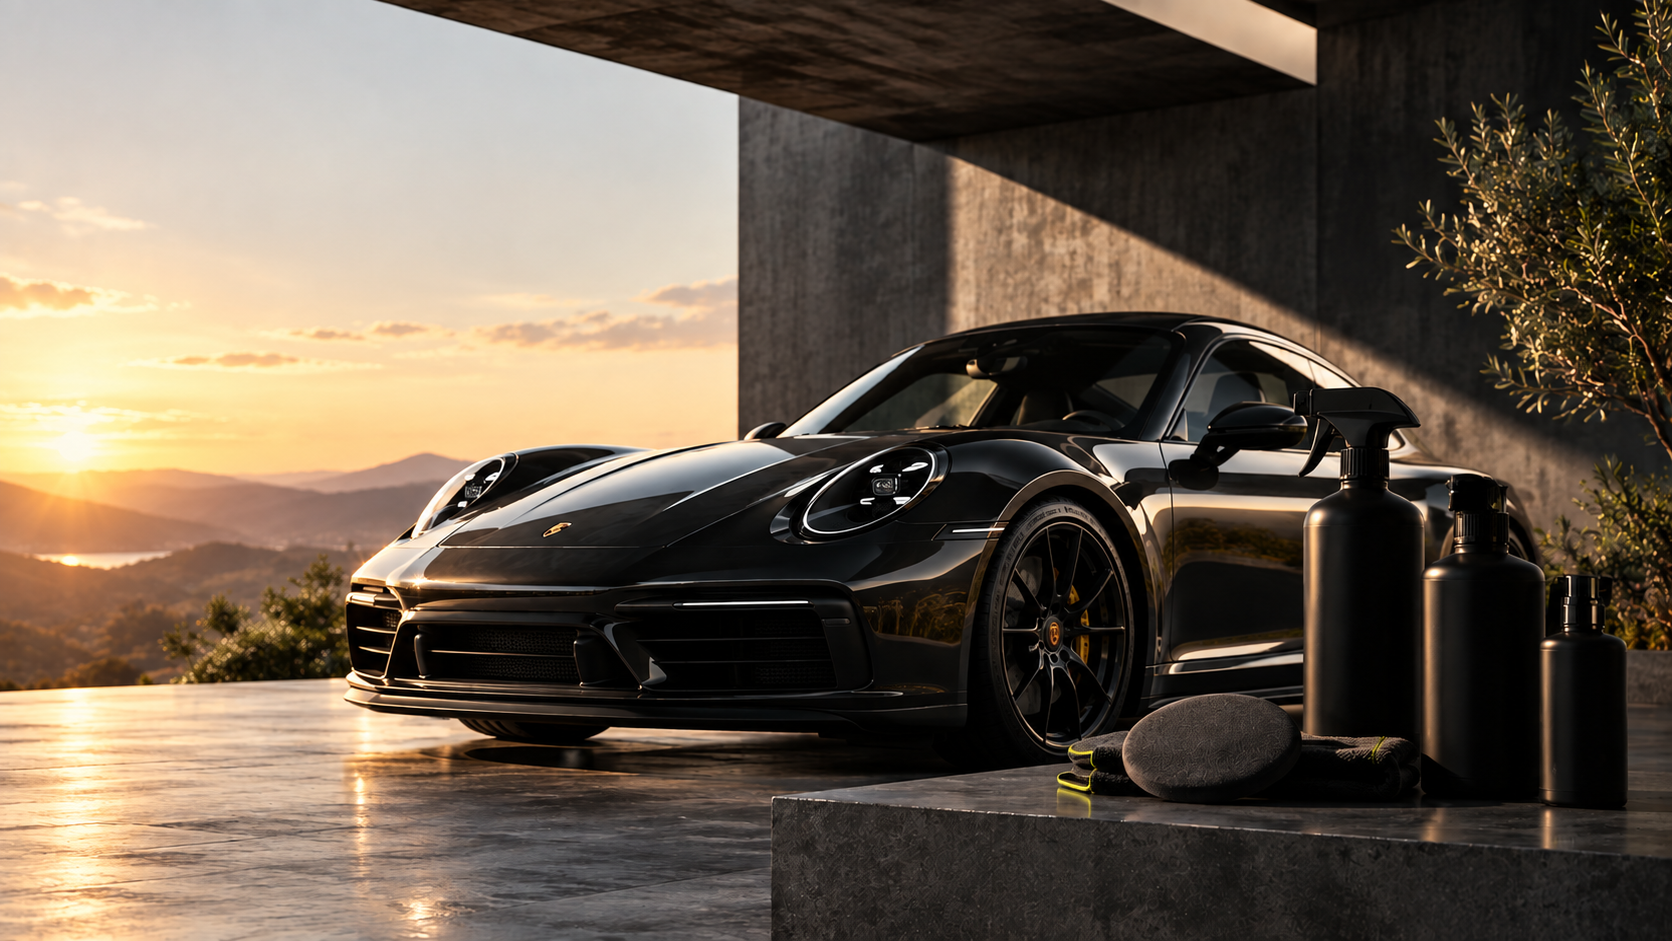
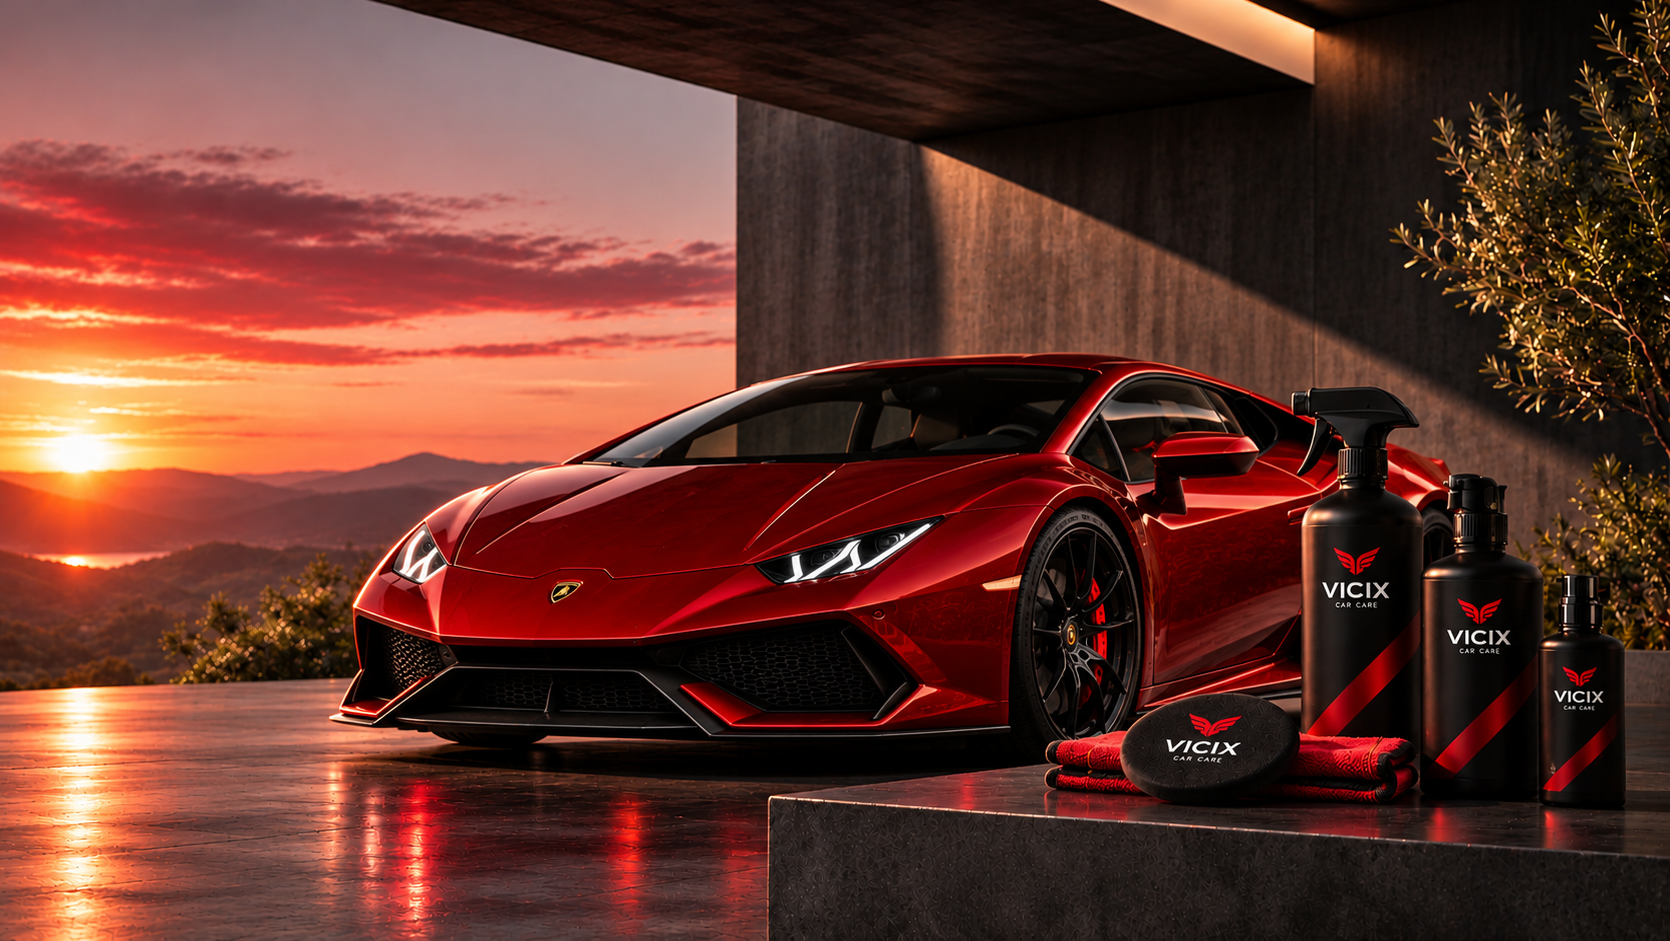
Improve VICIX mobile navigation and responsive design

diff --git a/src/components/layout/Header.jsx b/src/components/layout/Header.jsx
@@ -4,6 +4,7 @@
 import { useEffect, useState } from "react";
 import Image from "next/image";
 import Link from "next/link";
+
 import {
   usePathname,
   useRouter,
@@ -14,6 +15,7 @@ import {
   UserRound,
   Heart,
   ShoppingBag,
+  Grid2X2,
 } from "lucide-react";
 
 const navigation = [
@@ -77,10 +79,44 @@ export default function Header() {
   const router = useRouter();
 
   const [scrolled, setScrolled] = useState(false);
+  const [categoriesActive, setCategoriesActive] =
+    useState(false);
 
   useEffect(() => {
     const handleScroll = () => {
       setScrolled(window.scrollY > 8);
+
+      if (pathname !== "/") {
+        setCategoriesActive(false);
+        return;
+      }
+
+      const section = document.getElementById("kategoriler");
+
+      if (!section) {
+        setCategoriesActive(false);
+        return;
+      }
+
+      const header = document.querySelector(
+        "[data-revora-sticky-header]"
+      );
+
+      const headerHeight = header
+        ? header.getBoundingClientRect().height
+        : 0;
+
+      const sectionTop =
+        section.getBoundingClientRect().top -
+        headerHeight;
+
+      const sectionBottom =
+        section.getBoundingClientRect().bottom -
+        headerHeight;
+
+      setCategoriesActive(
+        sectionTop <= 100 && sectionBottom > 100
+      );
     };
 
     handleScroll();
@@ -89,13 +125,20 @@ export default function Header() {
       passive: true,
     });
 
+    window.addEventListener("resize", handleScroll);
+
     return () => {
       window.removeEventListener(
         "scroll",
         handleScroll
       );
+
+      window.removeEventListener(
+        "resize",
+        handleScroll
+      );
     };
-  }, []);
+  }, [pathname]);
 
   const handleLogoClick = (event) => {
     if (!isNormalClick(event)) return;
@@ -123,7 +166,10 @@ export default function Header() {
 
     const found = scrollToCategories();
 
-    if (found && window.location.hash !== "#kategoriler") {
+    if (
+      found &&
+      window.location.hash !== "#kategoriler"
+    ) {
       window.history.replaceState(
         window.history.state,
         "",
@@ -131,6 +177,10 @@ export default function Header() {
       );
     }
   };
+
+  const productsActive =
+    pathname === "/urunler" ||
+    pathname.startsWith("/urunler/");
 
   return (
     <>
@@ -149,15 +199,15 @@ export default function Header() {
           ${
             scrolled
               ? `
-                border-[var(--border)]
-                bg-[rgba(244,243,239,0.95)]
-                shadow-[0_8px_30px_rgba(17,19,18,0.04)]
-                backdrop-blur-xl
-              `
+                  border-[var(--border)]
+                  bg-[rgba(244,243,239,0.95)]
+                  shadow-[0_8px_30px_rgba(17,19,18,0.04)]
+                  backdrop-blur-xl
+                `
               : `
-                border-transparent
-                bg-[var(--background)]
-              `
+                  border-transparent
+                  bg-[var(--background)]
+                `
           }
         `}
       >
@@ -279,7 +329,7 @@ export default function Header() {
           bottom-0
           z-[90]
           border-t
-          border-[var(--border)]
+          border-[#D8DBD7]
           bg-[rgba(244,243,239,0.97)]
           pb-[env(safe-area-inset-bottom)]
           shadow-[0_-8px_30px_rgba(17,19,18,0.04)]
@@ -287,59 +337,137 @@ export default function Header() {
           lg:hidden
         "
       >
-        <div className="w-full px-4 sm:px-6">
-          <div className="grid h-[58px] grid-cols-2 items-center">
-            <Link
-              href="/#kategoriler"
-              onClick={(event) =>
-                handleNavigationClick(
-                  event,
-                  navigation[1]
-                )
-              }
-              className="
-                flex
-                h-full
-                items-center
-                justify-start
-                font-[family-name:var(--font-manrope)]
-                text-[11px]
-                font-semibold
-                uppercase
-                tracking-[0.1em]
-                text-[var(--foreground)]
-                transition-opacity
-                duration-300
-                hover:opacity-60
-              "
-            >
-              Kategoriler
-            </Link>
+        <div className="relative grid h-[62px] w-full grid-cols-2">
+          {/* CENTER DIVIDER */}
+          <span
+            aria-hidden="true"
+            className="
+              pointer-events-none
+              absolute
+              left-1/2
+              top-1/2
+              h-7
+              w-px
+              -translate-x-1/2
+              -translate-y-1/2
+              bg-[#D8DBD7]
+            "
+          />
 
-            <Link
-              href="/urunler"
-              className="
-                flex
-                h-full
-                items-center
-                justify-end
-                font-[family-name:var(--font-manrope)]
-                text-[11px]
-                font-semibold
-                uppercase
-                tracking-[0.1em]
-                text-[var(--foreground)]
-                transition-opacity
-                duration-300
-                hover:opacity-60
-              "
-            >
-              Ürünler
-            </Link>
-          </div>
+          {/* CATEGORIES */}
+          <MobileNavigationLink
+            href="/#kategoriler"
+            label="Kategoriler"
+            active={categoriesActive}
+            onClick={(event) =>
+              handleNavigationClick(
+                event,
+                navigation[1]
+              )
+            }
+            icon={
+              <Grid2X2
+                size={17}
+                strokeWidth={1.6}
+              />
+            }
+          />
+
+          {/* PRODUCTS */}
+          <MobileNavigationLink
+            href="/urunler"
+            label="Ürünler"
+            active={productsActive}
+            icon={
+              <ShoppingBag
+                size={17}
+                strokeWidth={1.6}
+              />
+            }
+          />
         </div>
       </nav>
     </>
+  );
+}
+
+/* MOBILE NAVIGATION LINK */
+function MobileNavigationLink({
+  href,
+  label,
+  icon,
+  active = false,
+  onClick,
+}) {
+  return (
+    <Link
+      href={href}
+      onClick={onClick}
+      aria-current={active ? "page" : undefined}
+      className="
+        group
+        relative
+        flex
+        h-full
+        min-w-0
+        items-center
+        justify-center
+        px-2
+        font-[family-name:var(--font-manrope)]
+        transition-colors
+        duration-300
+        hover:bg-[#EAECE7]/60
+      "
+    >
+      <span
+        className={`
+          flex
+          items-center
+          justify-center
+          gap-2
+          text-[11px]
+          font-semibold
+          tracking-[0.035em]
+          transition-colors
+          duration-300
+          ${
+            active
+              ? "text-[#A61922]"
+              : "text-[#333733] group-hover:text-[#A61922]"
+          }
+        `}
+      >
+        <span className="flex shrink-0 items-center justify-center">
+          {icon}
+        </span>
+
+        <span className="whitespace-nowrap">
+          {label}
+        </span>
+      </span>
+
+      {/* ACTIVE UNDERLINE */}
+      <span
+        aria-hidden="true"
+        className={`
+          absolute
+          bottom-[8px]
+          left-1/2
+          h-[2px]
+          w-[28px]
+          -translate-x-1/2
+          rounded-full
+          bg-[#A61922]
+          transition-all
+          duration-300
+          ${
+            active
+              ? "scale-x-100 opacity-100"
+              : "scale-x-0 opacity-0 group-hover:scale-x-100 group-hover:opacity-60"
+          }
+        `}
+      />
+    </Link>
   );
 }
 

diff --git a/src/components/home/Hero.jsx b/src/components/home/Hero.jsx
@@ -57,7 +57,6 @@ export default function Hero() {
       behavior: reducedMotion ? "auto" : "smooth",
     });
 
-    // Hash'i güncelle, Next.js history state'ini koru.
     if (window.location.hash !== "#kategoriler") {
       window.history.replaceState(
         window.history.state,
@@ -119,7 +118,7 @@ export default function Hero() {
       {/* BACKGROUND IMAGE */}
       <Image
         src="/images/hero/revora-hero.jpg"
-        alt="Premium araç bakım ve detailing ürünleri"
+        alt="VICIX Car Care - Kırmızı Lamborghini Huracán ve araç bakım ürünleri"
         fill
         priority
         sizes="100vw"
@@ -161,7 +160,7 @@ export default function Hero() {
           absolute
           inset-0
           -z-20
-          bg-[linear-gradient(180deg,rgba(8,10,9,0.18)_0%,rgba(8,10,9,0.40)_38%,rgba(8,10,9,0.88)_100%)]
+          bg-[linear-gradient(180deg,rgba(8,10,9,0.42)_0%,rgba(8,10,9,0.18)_35%,rgba(8,10,9,0.12)_65%,rgba(8,10,9,0.75)_100%)]
           lg:hidden
         "
       />
@@ -260,12 +259,16 @@ export default function Hero() {
           </p>
         </div>
 
-        {/* CENTER CONTENT */}
+        {/* MAIN CONTENT */}
         <div
           className="
             flex
             min-h-0
-            items-center
+            items-start
+            pt-5
+            sm:pt-8
+            lg:items-center
+            lg:pt-0
           "
         >
           <div className="w-full max-w-[900px]">
@@ -294,11 +297,13 @@ export default function Hero() {
               className="
                 max-w-[900px]
                 font-[family-name:var(--font-manrope)]
-                text-[clamp(2.35rem,10vw,6.7rem)]
+                text-[clamp(2rem,8.5vw,6.7rem)]
                 font-semibold
-                leading-[0.9]
+                leading-[0.95]
                 tracking-[-0.06em]
                 text-white
+                sm:text-[clamp(2.35rem,8vw,6.7rem)]
+                lg:leading-[0.9]
               "
             >
               Kusursuzluk
@@ -401,7 +406,7 @@ export default function Hero() {
                 />
               </Link>
 
-              {/* SECONDARY CTA — CATEGORIES */}
+              {/* SECONDARY CTA */}
               <Link
                 href="/#kategoriler"
                 onClick={handleCategoriesClick}
